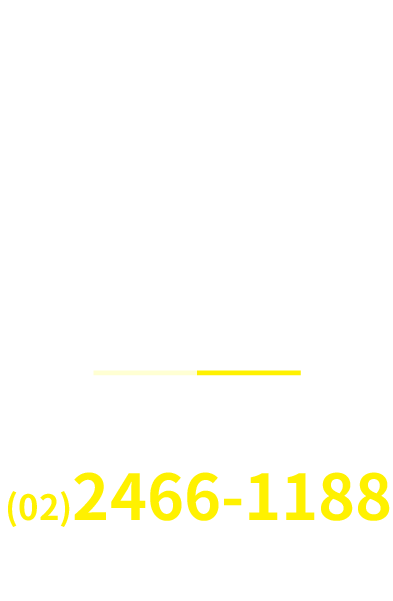
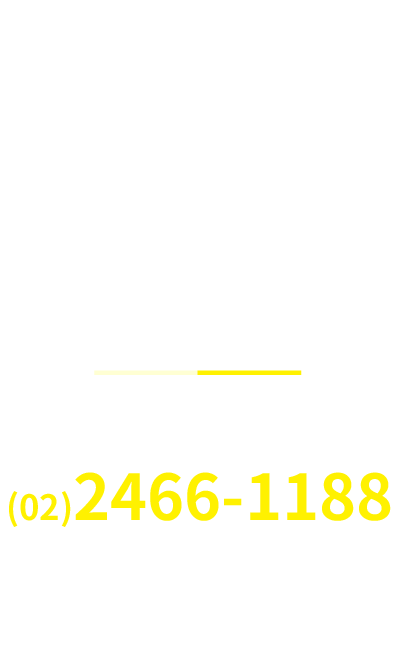
孝東交流道旁、警語

Changed region(s): [[0.0, 0.6889, 1.0, 0.8985], [0.2443, 0.599, 0.7634, 0.629], [0.2443, 0.5391, 0.7634, 0.5691]]

diff --git a/index.html b/index.html
@@ -403,15 +403,15 @@
 		<div class="living-gallery wow animate__animated animate__fadeInUp">
 			<div class="gallery-item">
 				<img src="pic/living/shopping01-1.jpg" alt="">
-				<p class="caption">全聯中心</p>
+				<p class="caption">海科館</p>
 			</div>
 			<div class="gallery-item">
 				<img src="pic/living/shopping01-2.jpg" alt="">
-				<p class="caption">交通示意圖</p>
+				<p class="caption">深溪商圈</p>
 			</div>
 			<div class="gallery-item">
 				<img src="pic/living/shopping01-3.jpg" alt="">
-				<p class="caption">情景示意圖</p>
+				<p class="caption">愛買商圈</p>
 			</div>
 			<div class="gallery-item">
 				<img src="pic/living/shopping01-4.jpg" alt="">
@@ -1468,6 +1468,23 @@
 
 				</div>
 			</div>
+
+			<!-- 免責聲明（區塊內右下方顯示） -->
+			<style>
+				.contact-disclaimer {
+
+					margin-top: 20px;
+					/* 與送出按鈕間距 */
+					font-size: 13px;
+					line-height: 1.5;
+					color: #222;
+				}
+			</style>
+
+			<div class="contact-disclaimer" role="note" aria-label="免責聲明">
+				本文所載各項距離、交通時間、生活機能及機關資訊，係依Gooogle
+				Maps、政府公開資訊或現場實際測量整理、僅供參考；實際距離及所需時間將因交通狀況、行號路線、號誌、尖離購時段及個人駕駛習慣等因素而有所不同，請以實際情況為準。
+			</div>
 	</section>
 
 
@@ -1929,6 +1946,7 @@
 
 
 	<!-- 新增送信的程式碼END -->
+
 
 </body>
 
